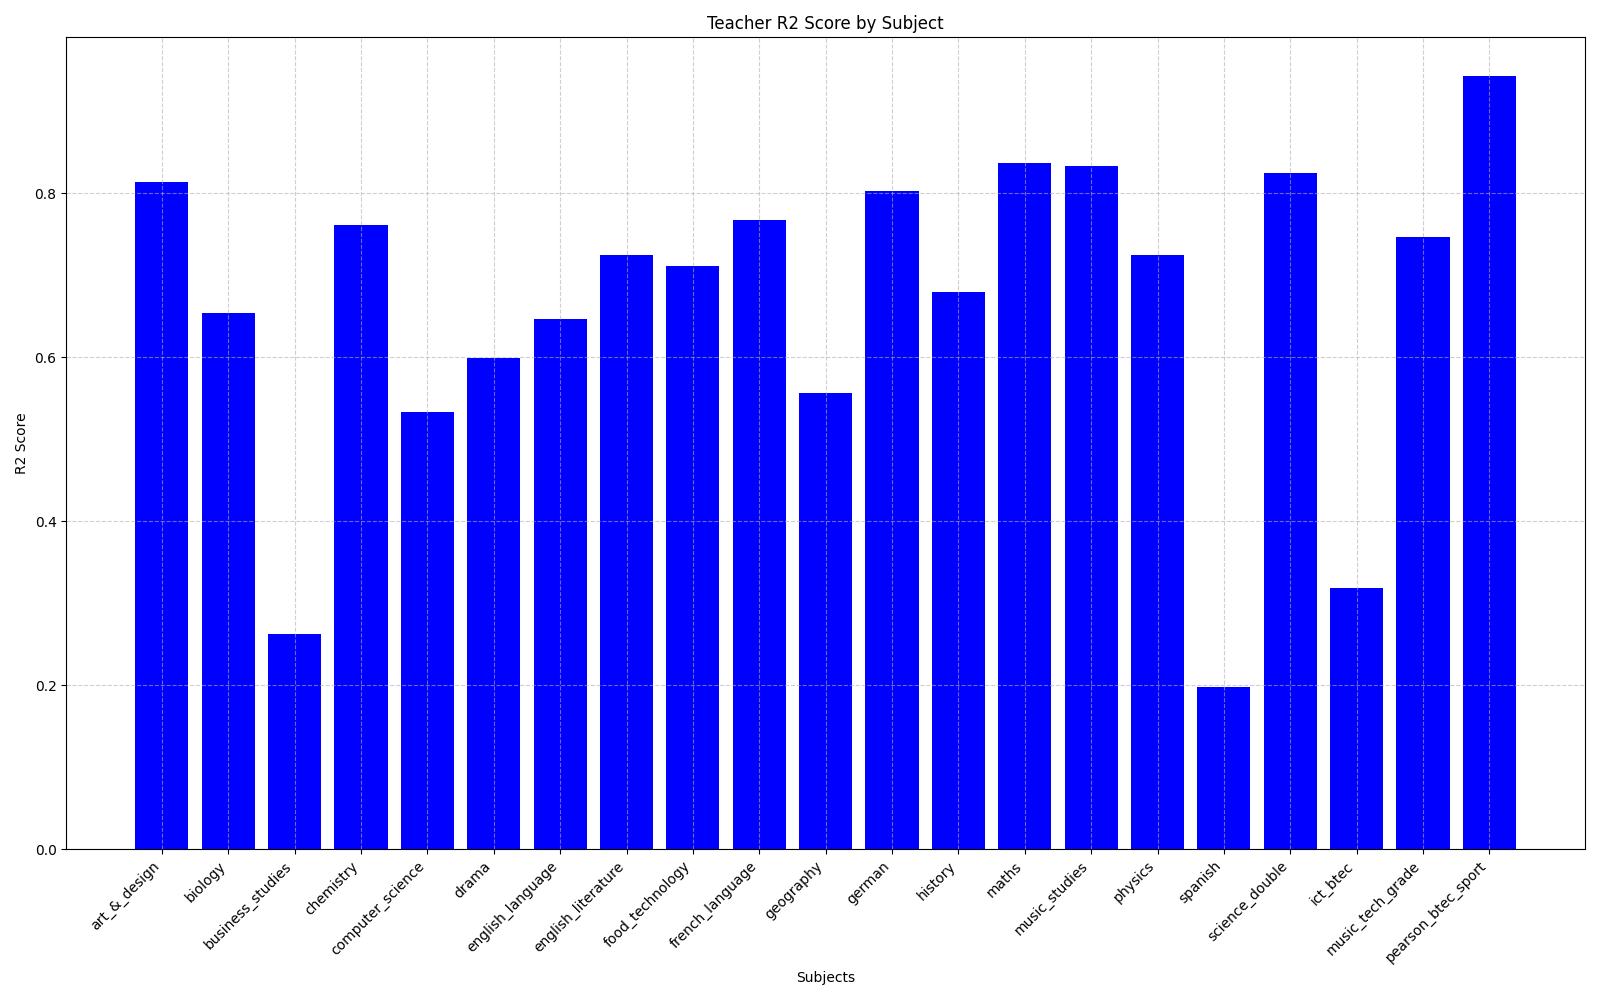
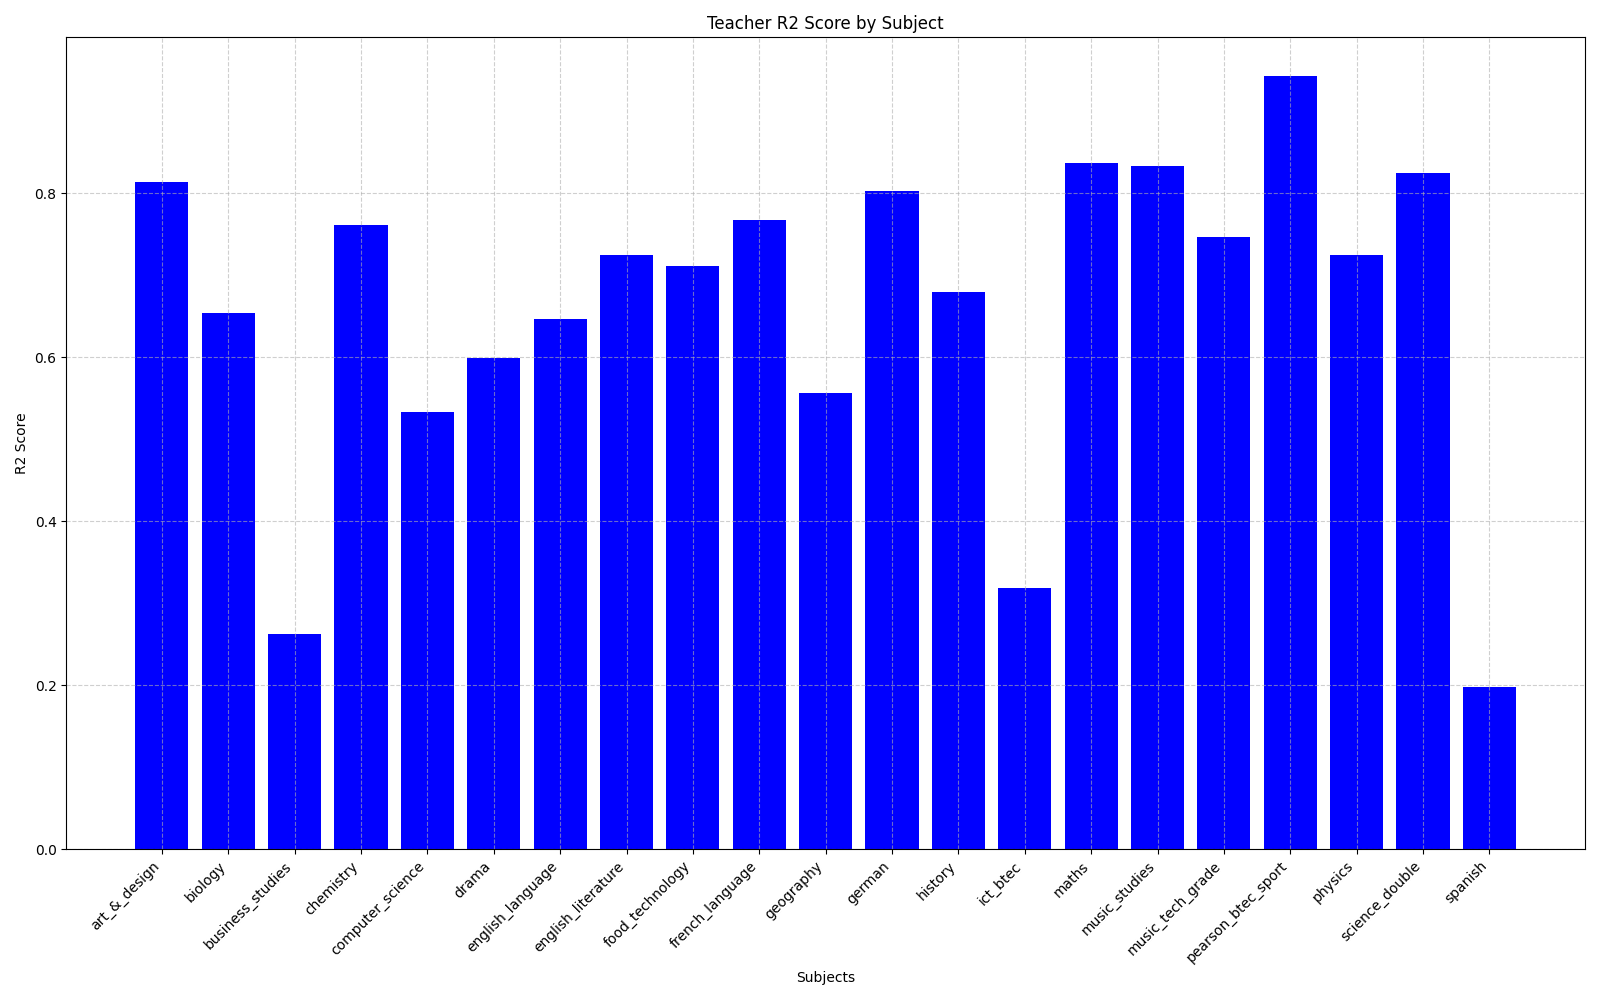
Added lines to graph to show teacher scores

diff --git a/prediction_analysis.py b/prediction_analysis.py
@@ -38,7 +38,9 @@ ax.set_xlabel('Subjects')
 ax.set_ylabel('Error Values')
 ax.set_title(f'{model.capitalize()} MSE and RMSE by Subject')
 ax.legend()
-
+# line to show average MSE
+plt.axhline(y=1.5414, color='blue', linestyle='--', label='Teacher MSE')
+plt.axhline(y=1.1838, color='red', linestyle='--', label='Teacher RMSE')
 
 # Show the plot
 plt.tight_layout()
@@ -71,6 +73,8 @@ ax.set_xticklabels(subjects, rotation=45, ha='right')
 ax.set_xlabel('Subjects')
 ax.set_ylabel('R2 Score')
 ax.set_title(f'{model.capitalize()} R2 Score by Subject')
+
+plt.axhline(y=0.6636, color='blue', linestyle='--', label='Teacher R2')
 
 # Adjust the layout
 plt.tight_layout()

diff --git a/create_teacher_scores.py b/create_teacher_scores.py
@@ -65,7 +65,7 @@ for subject in subjects:
             scores_df.loc[scores_df['subject'] == subject, ['MSE', 'RMSE', 'R2', 'Mean Absolute Error']] = [mse, rmse, r2, mae]
         else:
             # Add a new row for the subject
-            new_row = {'subject': subject, 'MSE': mse, 'RMSE': rmse, 'R2': r2}
+            new_row = {'subject': subject, 'MSE': mse, 'RMSE': rmse, 'R2': r2, 'Mean Absolute Error': mae}
             scores_df = pd.concat([scores_df, pd.DataFrame([new_row])], ignore_index=True)
 
         # Save the updated DataFrame back to "scores.csv"
